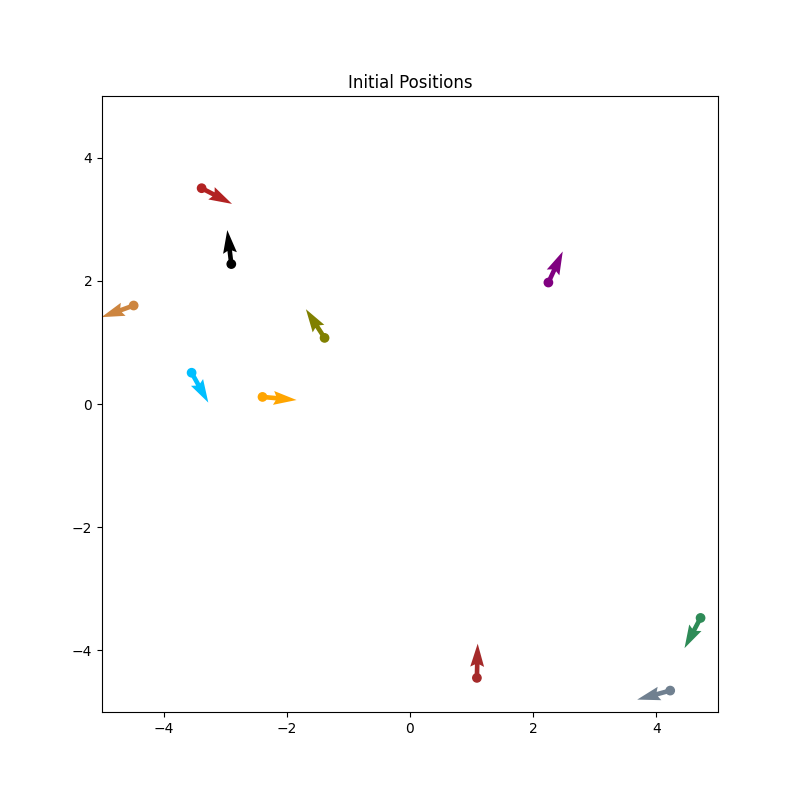
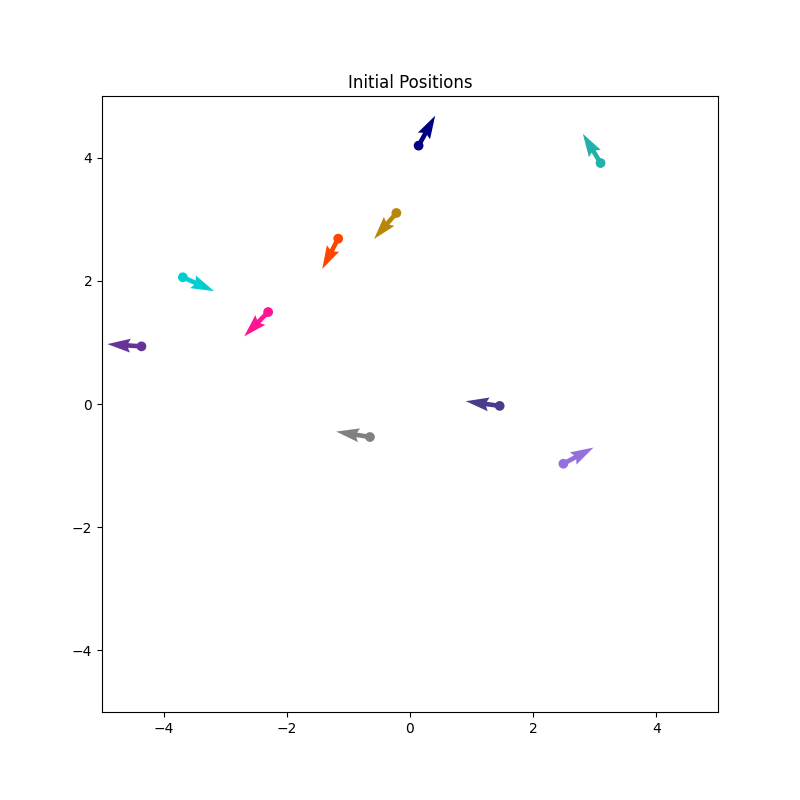
Reflective border fixed, simulation

diff --git a/Code/vicsek.py b/Code/vicsek.py
@@ -15,6 +15,7 @@ class Vicsek_continous:
         self.T = T
         self.dt = dt
         self.noise = noise
+        self.radius = radius
         self.size = L/R
         self.density = (N*R**2)/(L**2)
         self.ratio = v0/R
@@ -61,19 +62,20 @@ class Vicsek_continous:
         return polar_order
     
     def forcesSteric(self, particle1, particle2):
-        a = self.particles[0].radius
+        a = self.radius
         Dx = self.vector_x(particle1, particle2)
         Dy = self.vector_y(particle1, particle2)
         dist = self.distance(particle1, particle2)
         #we set self.Es = 1 => Es/a = 1/a
         tmp = -3*(1/a)*(2*(2*a/dist)**13-(2*a/dist)**7)/np.sqrt(dist)
+        print(tmp)
         Fs_x = tmp * Dx
         Fs_y = tmp * Dy
         return Fs_x, Fs_y
 
     def ref_border_x(self, particle, boundary):
         #reflective border x
-        diff = abs(self.L/2 - particle.x)
+        diff = abs(self.L/2 - abs(particle.x))
         particle.orientation = np.pi - particle.orientation
         if boundary == 1:
             #1 for the right border
@@ -86,13 +88,14 @@ class Vicsek_continous:
     def ref_border_y(self, particle, boundary):
         #reflective border y
         particle.orientation = -particle.orientation
-        diff = abs(self.L/2 - particle.y)
+        diff = abs(self.L/2 - abs(particle.y))
         if boundary == 1:
             #1 for the up boundary
             particle.y = self.L/2 - diff
         else:
             particle.y = -self.L/2 + diff
-        return particle.x, particle.orientation
+
+        return particle.y, particle.orientation
 
     def distance(self, p1, p2):
         #Compute the distance between two particles
@@ -132,18 +135,22 @@ class Vicsek_continous:
 
     def update_position(self):
         #Update position of each particle
+        self.compute_forces()
         for i, particle in enumerate(self.particles):
-            self.compute_forces()
+            if self.Fs_x[i] != 0:
+                print(f"Fs_x{i} = {self.Fs_x[i]}")
+            if self.Fs_y[i] != 0:
+                print(f"Fs_y{i} = {self.Fs_y[i]}")
             particle.x += self.v0*self.dt*(np.cos(particle.orientation) + self.Fs_x[i])
             particle.y += self.v0*self.dt*(np.sin(particle.orientation) + self.Fs_y[i])
 
-            if particle.x >= (self.L/2 - 2*self.particles[0].radius):
+            if self.L/2 < particle.x + self.radius:
                 particle.x, particle.orientation = self.ref_border_x(particle, 1)
-            if particle.x <= (-self.L/2 + 2*self.particles[0].radius):
+            if -self.L/2 > particle.x - self.radius:
                 particle.x, particle.orientation = self.ref_border_x(particle, 2)
-            if particle.y >= (self.L/2 - 2*self.particles[0].radius):
+            if self.L/2 < particle.y + self.radius:
                 particle.y, particle.orientation = self.ref_border_y(particle, 1)
-            if particle.y <= (-self.L/2 + self.particles[0].radius):
+            if -self.L/2 > particle.y - self.radius:
                 particle.y, particle.orientation = self.ref_border_y(particle, 2)
 
     def loop_time(self):
@@ -188,7 +195,7 @@ polar = vicsek_model.polar_order_parameter()
 print(f"polar parameter = {polar}")
 
 #Runs the simulation and plot at intervals
-num_steps = 2
+num_steps = 3
 for step in range(num_steps):
     start_time = time.time()
     vicsek_model.loop_time()
